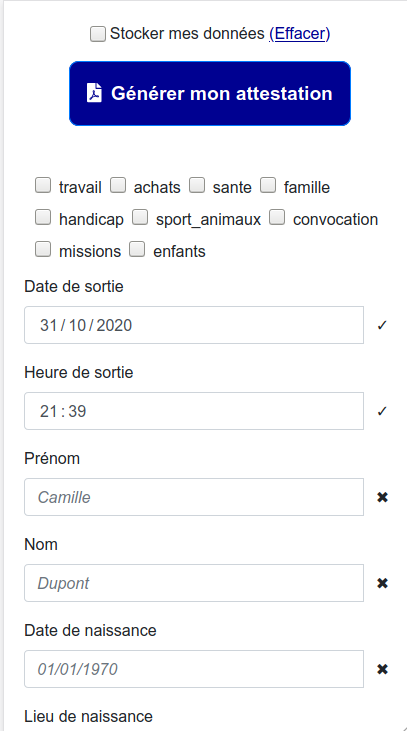
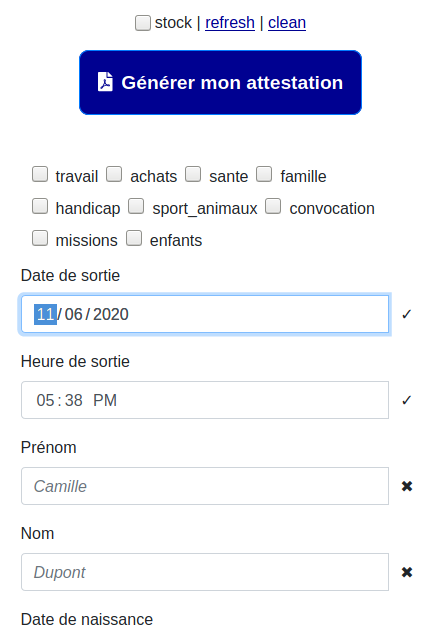
Update README

diff --git a/README.md b/README.md
@@ -8,6 +8,14 @@
 - Réordonne les champs pour avoir le bouton de génération et les motifs en premier
 - Remplace tous les labels des motifs par leur code respectif
 
+## Usage
+
+__Stock__ : cocher la case pour enregistrer les données dans le stockage local du navigateur.
+
+__Clean__ : efface les données du stockage local. (avertissement pour confirmer cette action)
+
+__Refresh__ : pour raffraîchir le contenu du formulaire (notamment ré-actualise date et heure)
+
 ## Docs
 
 Pour installer toutes les dépendances :
